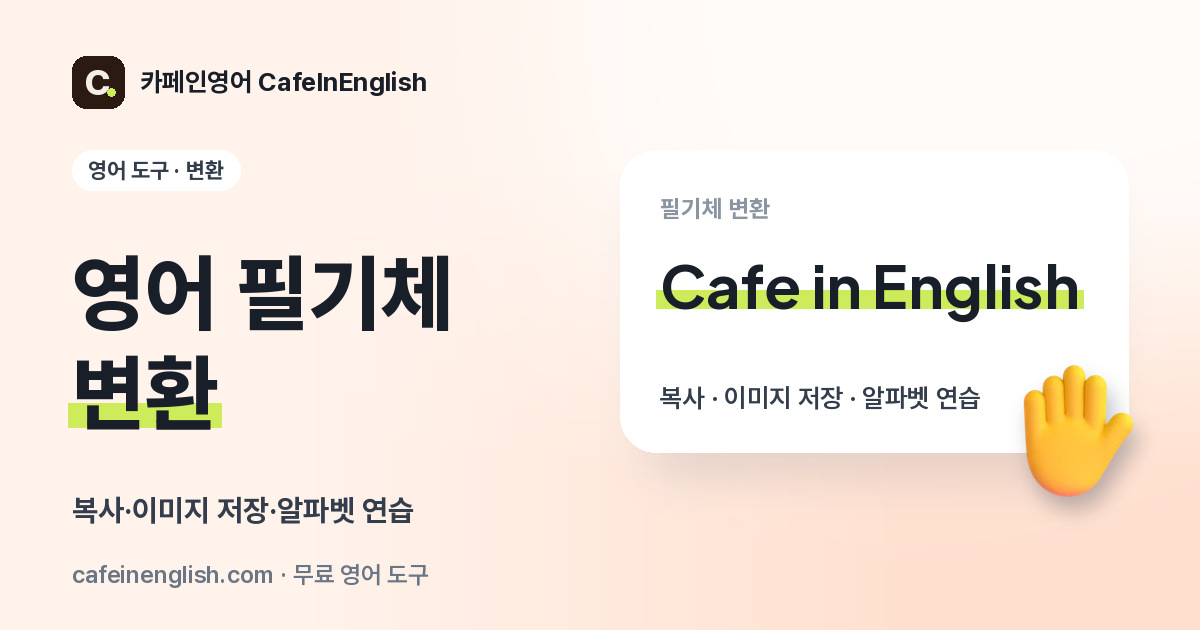
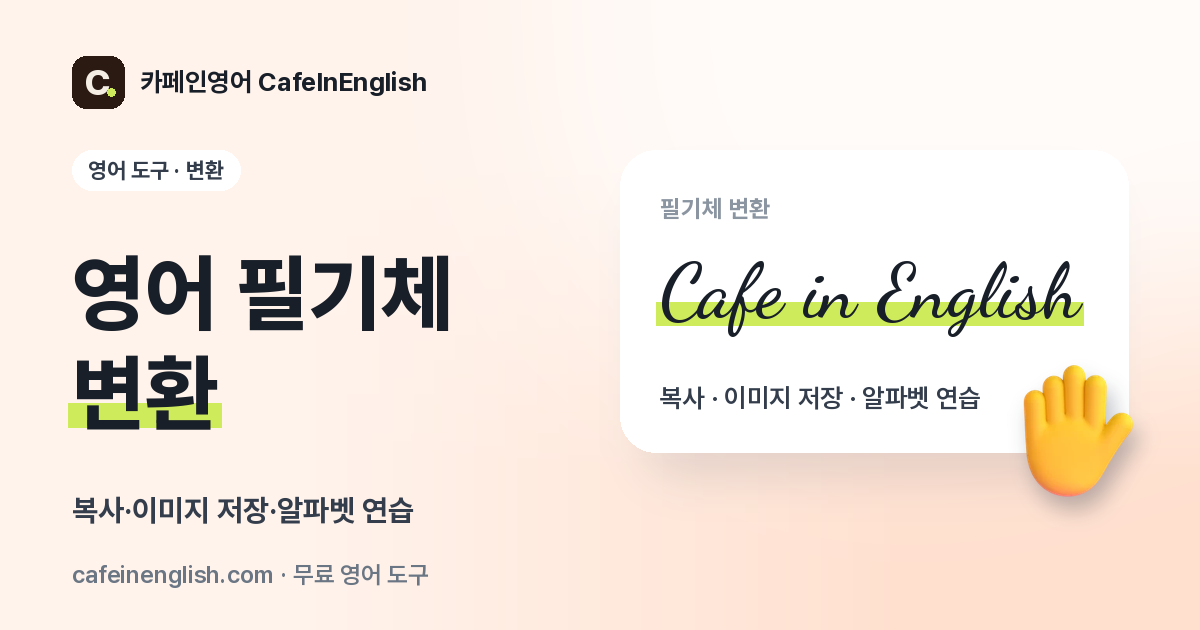
빌드 결과 갱신 (필기체 도구 공유 이미지 버전)
Claude-Session: https://claude.ai/code/session_01PMfggqzVXXZSi7J4yP46GC

Changed region(s): [[0.5242, 0.3921, 0.925, 0.5429]]

diff --git a/docs/tools/english-cursive/index.html b/docs/tools/english-cursive/index.html
@@ -11,10 +11,10 @@
 <meta property="og:title" content="영어 필기체 변환">
 <meta property="og:description" content="영어 이름이나 문장을 필기체로 바꿔 줘요. 인스타 프로필에 복사해서 쓰는 필기체, 손글씨 필기체 이미지 저장, 영어 알파벳 필기체 대문자·소문자 연습지 출력까지 무료로.">
 <meta property="og:url" content="https://www.cafeinenglish.com/tools/english-cursive/">
-<meta property="og:image" content="https://www.cafeinenglish.com/og/tool-cursive.png?v=00553b">
+<meta property="og:image" content="https://www.cafeinenglish.com/og/tool-cursive.png?v=2da3f2">
 <meta property="og:image:width" content="1200"><meta property="og:image:height" content="630">
 <meta name="twitter:card" content="summary_large_image">
-<meta name="twitter:image" content="https://www.cafeinenglish.com/og/tool-cursive.png?v=00553b">
+<meta name="twitter:image" content="https://www.cafeinenglish.com/og/tool-cursive.png?v=2da3f2">
 <meta name="google-site-verification" content="8V93JVeJvg3rD3jwMR2Bxi9SsPa9YDKwyiUkr5Mgs1o"><meta name="naver-site-verification" content="9f7c71c1053212656760e1eac374baa491b0ad56">
 <script type="application/ld+json">{"@context": "https://schema.org", "@graph": [{"@type": "WebApplication", "name": "영어 필기체 변환", "url": "https://www.cafeinenglish.com/tools/english-cursive/", "description": "영어 이름이나 문장을 필기체로 바꿔 줘요. 인스타 프로필에 복사해서 쓰는 필기체, 손글씨 필기체 이미지 저장, 영어 알파벳 필기체 대문자·소문자 연습지 출력까지 무료로.", "inLanguage": "ko", "applicationCategory": "UtilitiesApplication", "operatingSystem": "All", "isAccessibleForFree": true, "offers": {"@type": "Offer", "price": "0", "priceCurrency": "KRW"}, "publisher": {"@type": "Organization", "name": "카페인영어 CafeInEnglish", "url": "https://www.cafeinenglish.com/", "logo": {"@type": "ImageObject", "url": "https://www.cafeinenglish.com/assets/icon-512.png"}, "sameAs": ["https://www.youtube.com/@CAFEINENGLISH", "https://www.instagram.com/cafe_in_english"]}}, {"@type": "BreadcrumbList", "itemListElement": [{"@type": "ListItem", "position": 1, "name": "홈", "item": "https://www.cafeinenglish.com/"}, {"@type": "ListItem", "position": 2, "name": "영어 도구", "item": "https://www.cafeinenglish.com/tools/"}, {"@type": "ListItem", "position": 3, "name": "영어 필기체 변환", "item": "https://www.cafeinenglish.com/tools/english-cursive/"}]}, {"@type": "FAQPage", "mainEntity": [{"@type": "Question", "name": "복사한 필기체가 다른 곳에서 깨져요.", "acceptedAnswer": {"@type": "Answer", "text": "'복사해서 쓰기'는 글꼴이 아니라 필기체 모양의 특수 문자(유니코드)라서, 일부 오래된 기기나 앱에서는 네모로 보일 수 있어요. 그럴 때는 '이미지로 저장'을 쓰세요."}}, {"@type": "Question", "name": "인스타그램 프로필에 써도 되나요?", "acceptedAnswer": {"@type": "Answer", "text": "네, 복사해서 바로 붙여 넣을 수 있어요. 다만 특수 문자라서 검색에는 잘 잡히지 않고, 화면 읽기 프로그램은 제대로 읽지 못해요. 이름이나 중요한 정보는 일반 글자로 함께 써 두세요."}}, {"@type": "Question", "name": "필기체 이미지는 어디에 쓸 수 있나요?", "acceptedAnswer": {"@type": "Answer", "text": "카드, 포스터, 노트 꾸미기에 쓰기 좋아요. 이미지에 쓴 글꼴은 누구나 무료로 쓸 수 있는 글꼴(SIL Open Font License)이에요."}}, {"@type": "Question", "name": "영어 필기체는 학교에서 배우나요?", "acceptedAnswer": {"@type": "Answer", "text": "미국은 주마다 달라요. 필기체 교육을 다시 의무로 정한 주도 있고, 쓰지 않는 학교도 많아요. 읽을 줄 알면 손글씨 카드나 옛 문서를 읽을 때 도움이 돼요."}}, {"@type": "Question", "name": "입력한 글이 저장되나요?", "acceptedAnswer": {"@type": "Answer", "text": "아니요. 글은 이 브라우저 안에서만 바꾸고, 어디에도 보내거나 저장하지 않아요."}}]}]}</script>
 <link rel="icon" href="/assets/favicon.svg?v=3" type="image/svg+xml">
